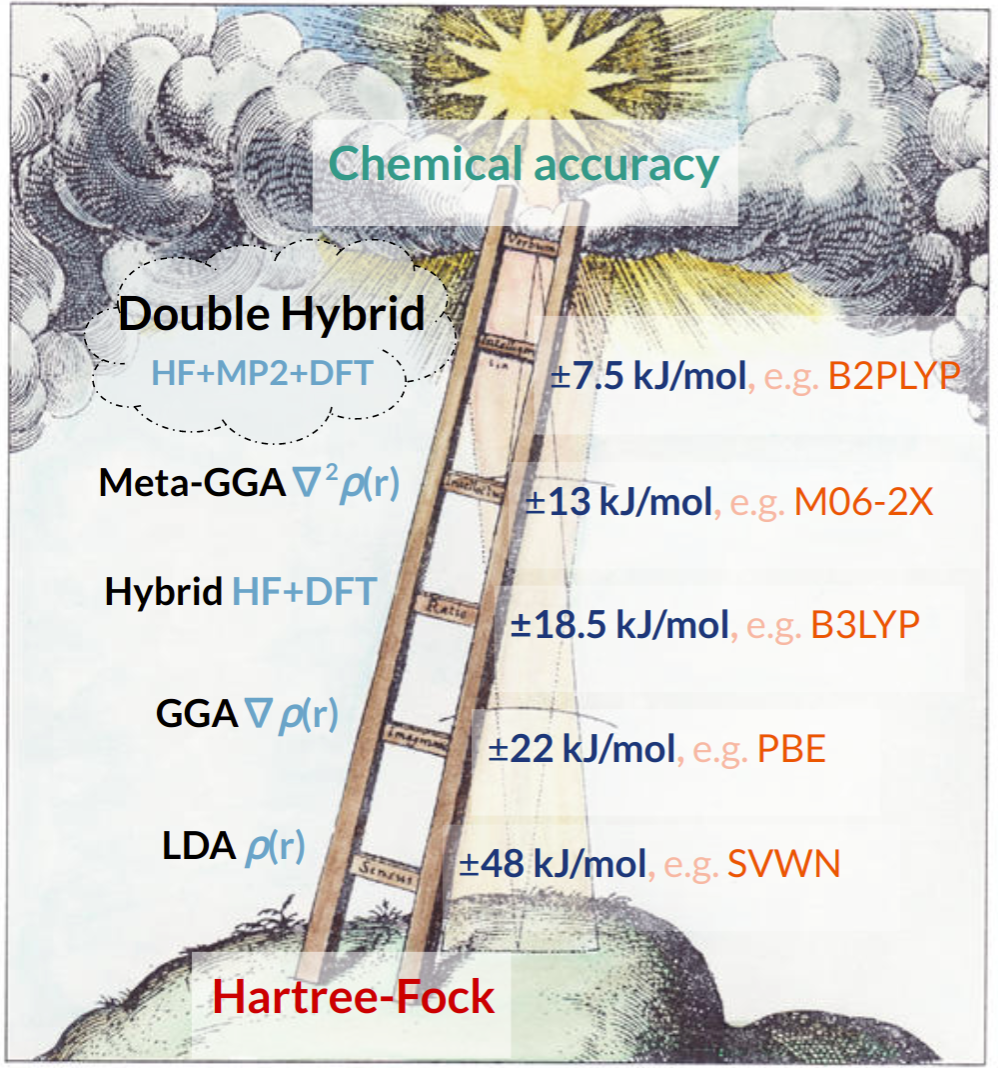
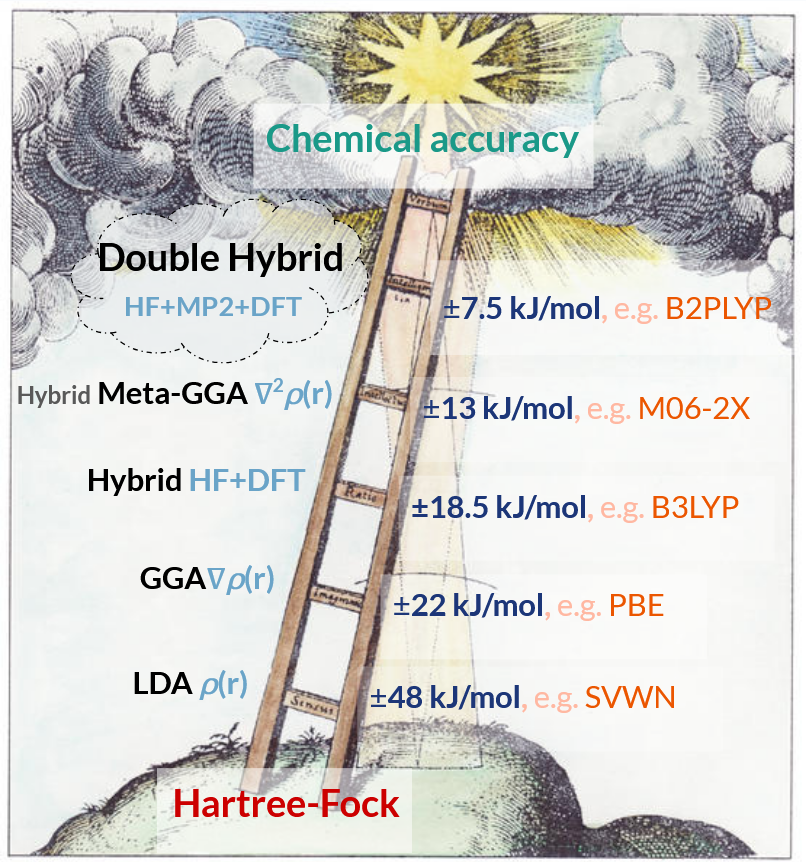
Add hybrid in front of Meta-GGA since M06-2X is doublying the HF exchange (X) energy

Changed region(s): [[0.0, 0.0, 1.0, 1.0], [0.6824, 0.7842, 0.8375, 0.8445]]

diff --git a/_posts/2023-06-14-nitrogen-fixation.md b/_posts/2023-06-14-nitrogen-fixation.md
@@ -50,7 +50,7 @@ Australia has its own involvement in the administration of a guano island, Nauru
 ### N≡N + 🦠: the organic way to fertilise soil 
 Pre-existing nitrogen in the soil has been put there by [nitrogen fixing bacteria roughly 2.5 billion years ago](https://www.science.org/doi/10.1126/science.1165675), around the time the atmosphere became oxygen rich and [well before plants learned to breathe](https://www.science.org/doi/10.1126/science.355.6330.1110). Nitrogen fixing bacteria contain [nitrogenase](https://pdb101.rcsb.org/motm/26): an enzyme that funnels electrons to a molecular-scale crucible of metal clusters where the N≡N bond is broken. While the structure of this 'crucible' has been [determined in exquisite detail](https://www.rcsb.org/structure/1n2c), to my knowledge *exactly* where and how famously unreactive N≡N binds inside nitrogenase is still an unsolved, subtle, complex molecular puzzle [actively researched with modern techniques](https://pubs.acs.org/doi/10.1021/acs.chemrev.9b00650). The efficiency of nitrogenase leaves contemporary molecular science a little embarrassed; what bacteria can do in the open air humans must still force through using electric arcs or hundreds of atmospheres of pressure. 
 
-Some nitrogen fixing bacteria, known as rhizobia, require a plant host (spefically legumes: beans, clover, peas, *etc*) in which rhizobia form root nodules. Rhizobia feed legumes fixed nitrogen until their host dies, at which point rhizobia infect a new legume or return to the soil, providing bioaccessible nitrogen. This is the answer to the children's song, *"Do you, or I, or anyone know how oats, peas, beans, and barley grow?"* — legumes are included in the crop rotation to ensure the soil remains nitrogen-rich. Several other bacteria can fix nitrogen, including some blue-green algae which have a symbiotic relationship with many plants, including giant Rhubarb (*Gunnera manicata*); an example of which [can be found in the Tasmanian Botanic Gardens](/images/giant_rhubarb.png).  
+Some nitrogen fixing bacteria, known as rhizobia, require a plant host (specifically legumes: beans, clover, peas, *etc*) in which rhizobia form root nodules. Rhizobia feed legumes fixed nitrogen until their host dies, at which point rhizobia infect a new legume or return to the soil, providing bioaccessible nitrogen. This is the answer to the children's song, *"Do you, or I, or anyone know how oats, peas, beans, and barley grow?"* — legumes are included in the crop rotation to ensure the soil remains nitrogen-rich. Several other bacteria can fix nitrogen, including some blue-green algae which have a symbiotic relationship with many plants, including giant Rhubarb (*Gunnera manicata*); an example of which [can be found in the Tasmanian Botanic Gardens](/images/giant_rhubarb.png).  
 
 
 ### 🌿 + 🦠: kudzu and the overrun of the American south 

diff --git a/_drafts/FUTURE-the-delian-mode.md b/_drafts/FUTURE-the-delian-mode.md
@@ -78,6 +78,7 @@ The palimpsest is the internet centralising to platforms web 1.0 -> web 2.0 -> f
 - Delia Debyshire day
 - Web 1.0 => 2.0 => 3.0 (which is going great, lol) as the lost futures and fading palimpsest of our digital inscriptions
 - Federated Computing in social media, but also in scientific research
+- Mention Flux, and avant-garde new computing scheduler, has built in multi-*site* scheduling mechanisms 
 
 ---
 
